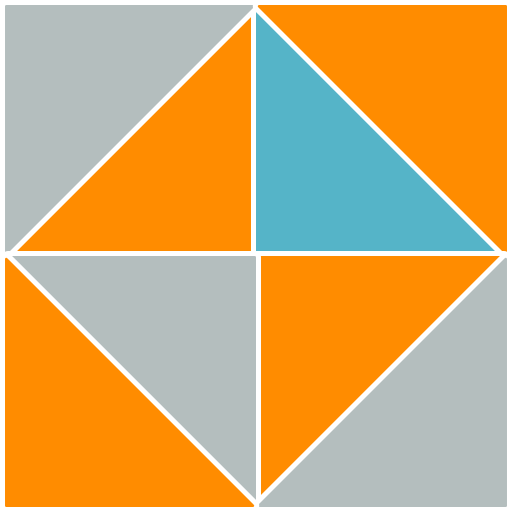
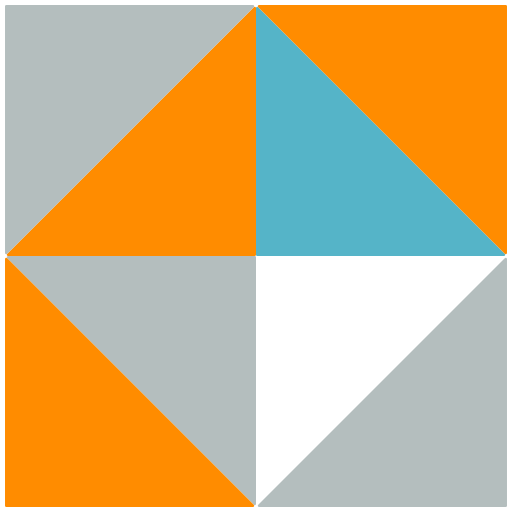
AG-14830 - image fill tests

Changed region(s): [[0.0, 0.0, 1.0, 1.0]]

diff --git a/packages/ag-charts-community/src/chart/series/cartesian/areaSeries.test.ts b/packages/ag-charts-community/src/chart/series/cartesian/areaSeries.test.ts
@@ -5,6 +5,8 @@ import type {
     AgCartesianChartOptions,
     AgChartInstance,
     AgChartOptions,
+    AgColorRepeat,
+    AgImageFillFit,
     AgPatternName,
     AgTimeAxisOptions,
 } from 'ag-charts-types';
@@ -813,6 +815,64 @@ describe('AreaSeries', () => {
                 await compare();
 
                 expect(console.warn).toHaveBeenCalledWith(warningMessage);
+            }
+        );
+    });
+
+    describe('image fill', () => {
+        const EXAMPLE = deepClone(examples.SIMPLE_AREA_GRAPH_EXAMPLE);
+
+        it.each(['repeat', 'no-repeat'] as AgColorRepeat[])(
+            'it should create a chart with repeat %s image',
+            async (repetition) => {
+                const series = (EXAMPLE.series as AgAreaSeriesOptions[])[0];
+                const options: AgChartOptions = {
+                    ...EXAMPLE,
+                    series: [
+                        {
+                            ...series,
+                            normalizedTo: 100,
+                            fillOpacity: 1,
+                            fill: {
+                                type: 'image',
+                                url: `${process.cwd()}/packages/ag-charts-website/public/example-assets/docs-images/brandColorsTile.png`,
+                                width: 50,
+                                height: 50,
+                                repeat: repetition,
+                            },
+                        },
+                    ] as AgAreaSeriesOptions[],
+                };
+                prepareTestOptions(options);
+
+                chart = AgCharts.create(options);
+                await compare();
+            }
+        );
+
+        it.each(['contain', 'cover', 'stretch', 'none'] as AgImageFillFit[])(
+            'it should create a chart with fit %s image',
+            async (fit) => {
+                const series = (EXAMPLE.series as AgAreaSeriesOptions[])[0];
+                const options: AgChartOptions = {
+                    ...EXAMPLE,
+                    series: [
+                        {
+                            ...series,
+                            normalizedTo: 100,
+                            fillOpacity: 1,
+                            fill: {
+                                type: 'image',
+                                url: `${process.cwd()}/packages/ag-charts-website/public/example-assets/docs-images/ag-grid-logomark.png`,
+                                fit,
+                            },
+                        },
+                    ] as AgAreaSeriesOptions[],
+                };
+                prepareTestOptions(options);
+
+                chart = AgCharts.create(options);
+                await compare();
             }
         );
     });

diff --git a/packages/ag-charts-website/src/content/gallery/_examples/simple-area/main.ts b/packages/ag-charts-website/src/content/gallery/_examples/simple-area/main.ts
@@ -9,7 +9,7 @@ const options: AgChartOptions = {
         text: 'User Engagement Trends',
     },
     footnote: {
-        text: 'Daily snew signups for May 1–14, 2025',
+        text: 'Daily new signups for May 1–14, 2025',
     },
     series: [
         {
@@ -20,10 +20,11 @@ const options: AgChartOptions = {
             fillOpacity: 1,
             fill: {
                 type: 'image',
-                url: '${baseWWWUrl}/example-assets/docs-images/brandColorsTile.png',
+                url: '${baseWWWUrl}/example-assets/docs-images/tile.png',
                 width: 50,
                 height: 50,
                 repeat: 'repeat',
+                backgroundFillOpacity: 0.3,
             },
             interpolation: {
                 type: 'smooth',

diff --git a/packages/ag-charts-enterprise/jest.setup.ts b/packages/ag-charts-enterprise/jest.setup.ts
@@ -1,6 +1,6 @@
 import { expect, jest } from '@jest/globals';
 import { Blob } from 'buffer';
-import { CanvasRenderingContext2D, DOMMatrix } from 'canvas';
+import { CanvasRenderingContext2D, DOMMatrix, Image } from 'canvas';
 import { type MatchImageSnapshotOptions, toMatchImageSnapshot } from 'jest-image-snapshot';
 import { Path2D, applyPath2DToCanvasRenderingContext } from 'path2d';
 import { URL } from 'url';
@@ -12,6 +12,9 @@ global.Blob = Blob;
 
 // @ts-expect-error types don't exactly align
 global.DOMMatrix = DOMMatrix;
+
+// @ts-expect-error types don't exactly align
+global.Image = Image;
 
 // @ts-expect-error types don't exactly align
 global.Path2D = Path2D;

diff --git a/packages/ag-charts-community/jest.setup.ts b/packages/ag-charts-community/jest.setup.ts
@@ -1,5 +1,5 @@
 import { expect } from '@jest/globals';
-import { CanvasRenderingContext2D, DOMMatrix } from 'canvas';
+import { CanvasRenderingContext2D, DOMMatrix, Image } from 'canvas';
 import { type MatchImageSnapshotOptions, toMatchImageSnapshot } from 'jest-image-snapshot';
 import { Path2D, applyPath2DToCanvasRenderingContext } from 'path2d';
 import { URL } from 'url';
@@ -11,6 +11,9 @@ global.Blob = Blob;
 
 // @ts-expect-error types don't exactly align
 global.DOMMatrix = DOMMatrix;
+
+// @ts-expect-error types don't exactly align
+global.Image = Image;
 
 // @ts-expect-error types don't exactly align
 global.Path2D = Path2D;
